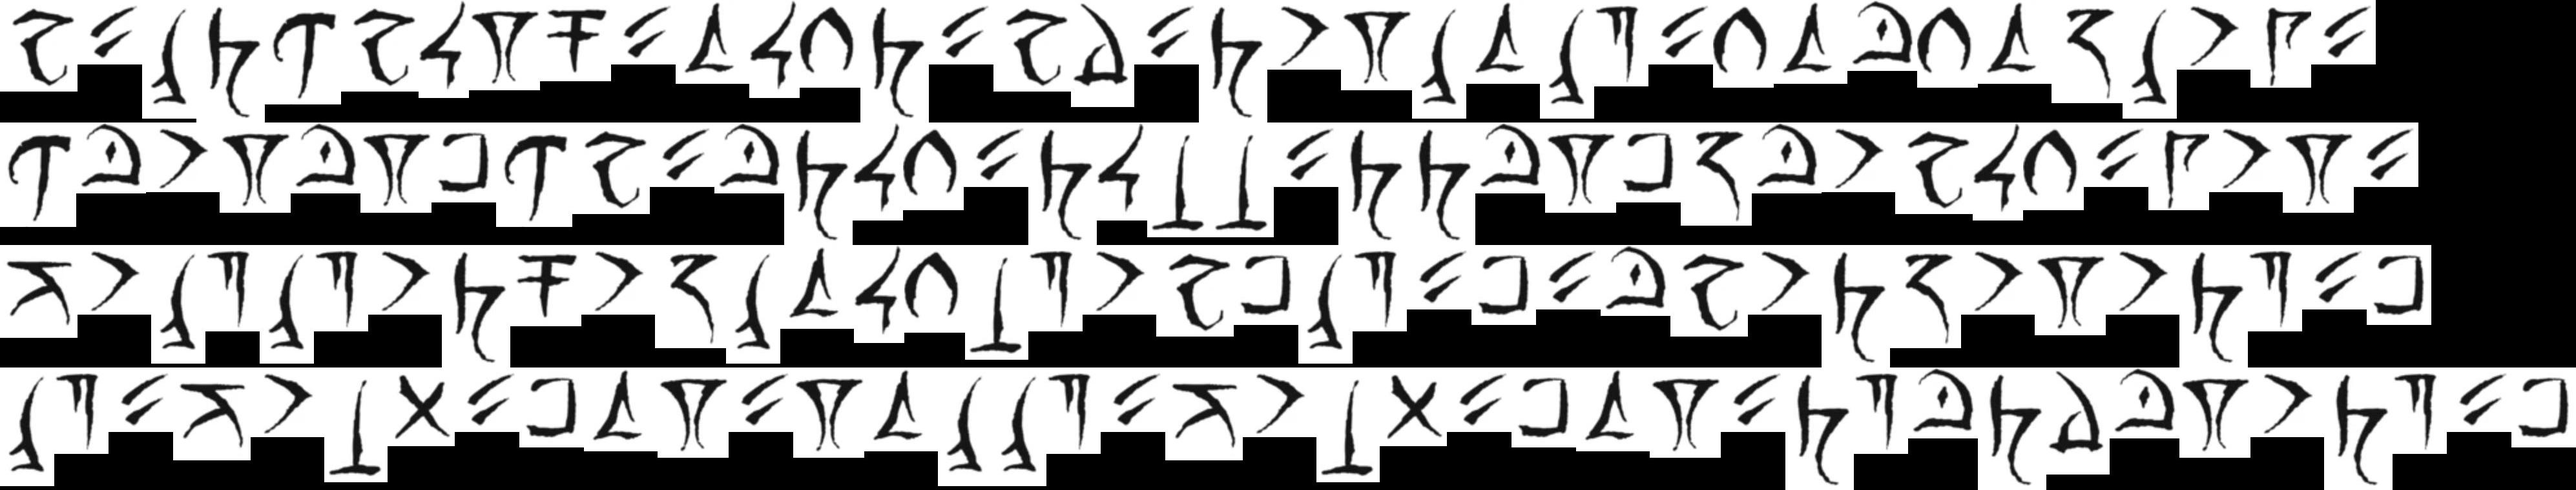
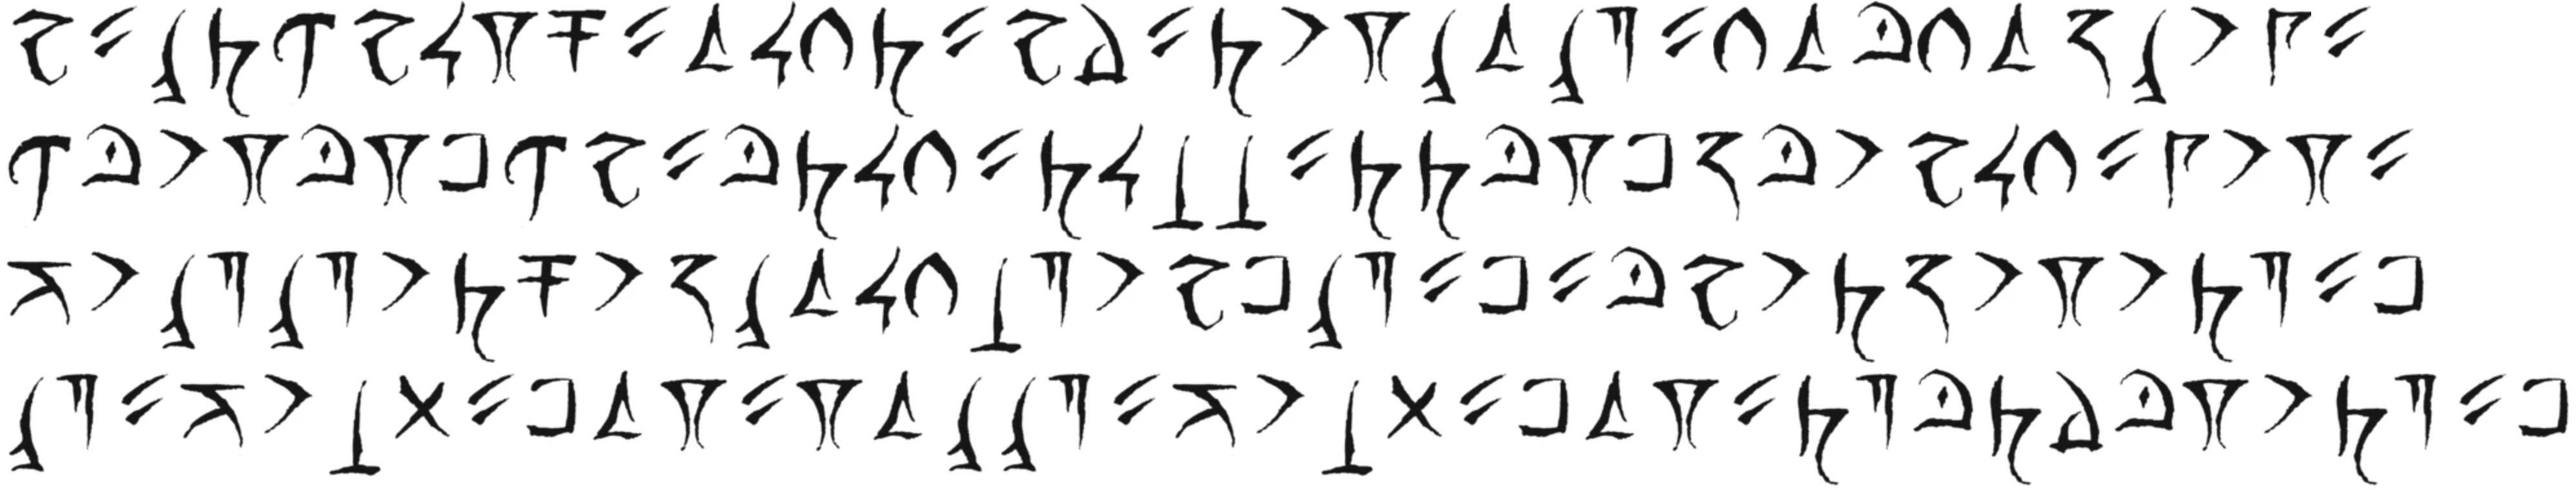
Updated README

diff --git a/README.md b/README.md
@@ -1,2 +1,60 @@
-docker build -t my-python-app .
-$ docker run -it --rm --name my-running-app my-python-app
+# DMs Journal
+
+===
+
+## Rosetta
+
+### Table of Contents
+
+- [DMs Journal](www.dmsjournal.blog)
+  - [Rosetta](#rosetta)
+    - [Table of Contents](#table-of-contents)
+    - [Buy me a coffee](#buy-me-a-coffee)
+    - [Introduction](#introduction)
+    - [Setup](#setup)
+    - [Using the Program](#using-the-program)
+
+### Buy me a coffee
+
+Whether you use this project, have learned something from it, or just like it, please consider supporting it by buying me a coffee, so I can dedicate more time on open-source projects like this.
+
+<a href="https://www.buymeacoffee.com/dmsjournal" target="_blank"><img src="https://www.buymeacoffee.com/assets/img/custom_images/orange_img.png" alt="Buy Me A Coffee" style="height: auto !important;width: auto !important;" ></a>
+
+### Introduction
+
+Rosetta is a simple project which takes an input from a text file and converts it to fictional languages. This project was built to assist in the conversion to the Abyssal rune language for a DnD campaign and as such that is the only available language at the moment.
+
+### Setup
+
+```bash
+git clone https://github.com/DMs-Journal/rosetta.git
+cd rosetta
+docker-compose build
+```
+
+### Using the Program
+
+Put the message you want to translate in `input.txt`. This program only supports English.
+
+```bash
+docker-compose run translate
+```
+
+### Development
+
+Want to contribute? Great!
+
+To fix a bug or enhance an existing module, follow these steps:
+
+- Fork the repo
+- Create a new branch (git checkout -b improve-feature)
+- Make the appropriate changes in the files
+- Add changes to reflect the changes made
+- Commit your changes (git commit -am 'Improve feature')
+- Push to the branch (git push origin improve-feature)
+- Create a Pull Request
+- Bug / Feature Request
+
+If you find a bug (the website couldn't handle the query and / or gave undesired results), kindly open an [issue here](https://github.com/DMs-Journal/rosetta/issues/new) by including your search query and the expected result.
+
+If you'd like to request a new function, feel free to do so by opening an [issue here](https://github.com/DMs-Journal/rosetta/issues/new). Please include sample queries and their corresponding results.
